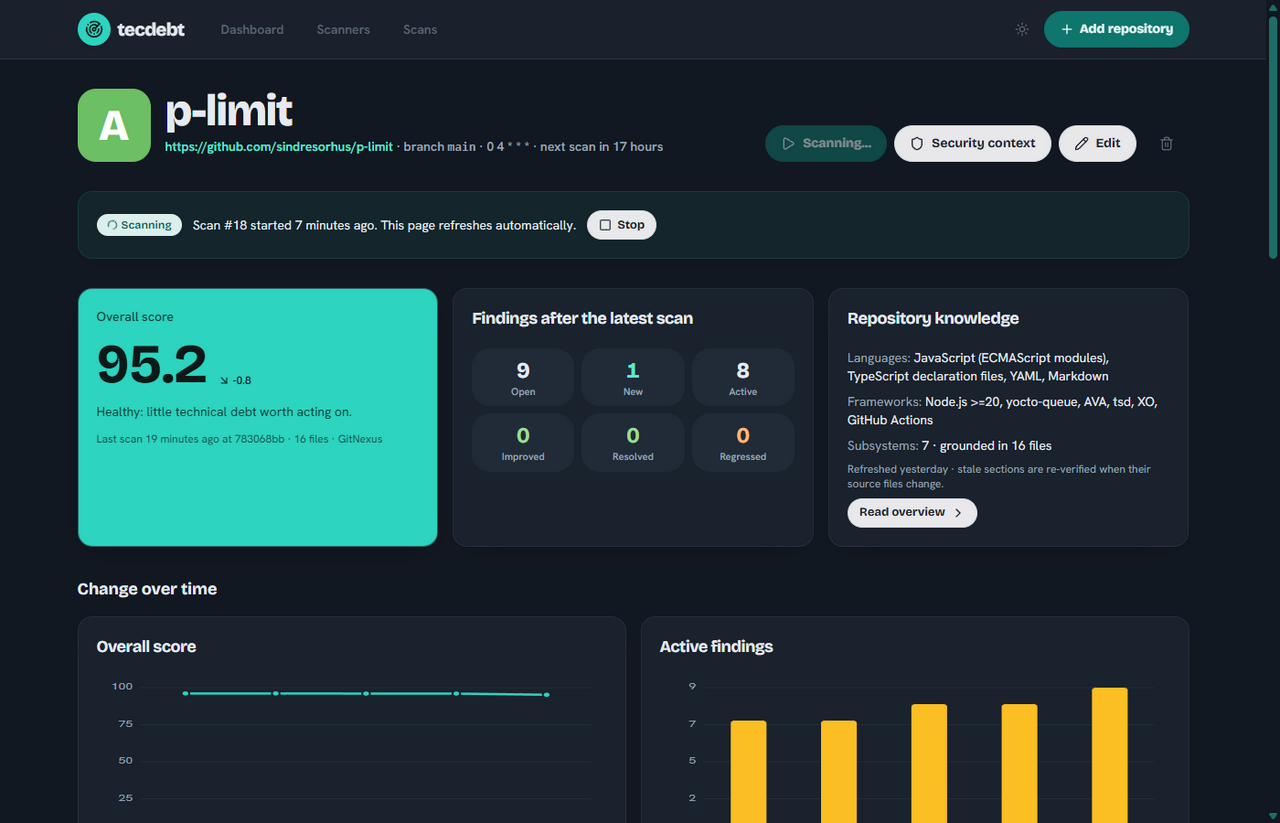
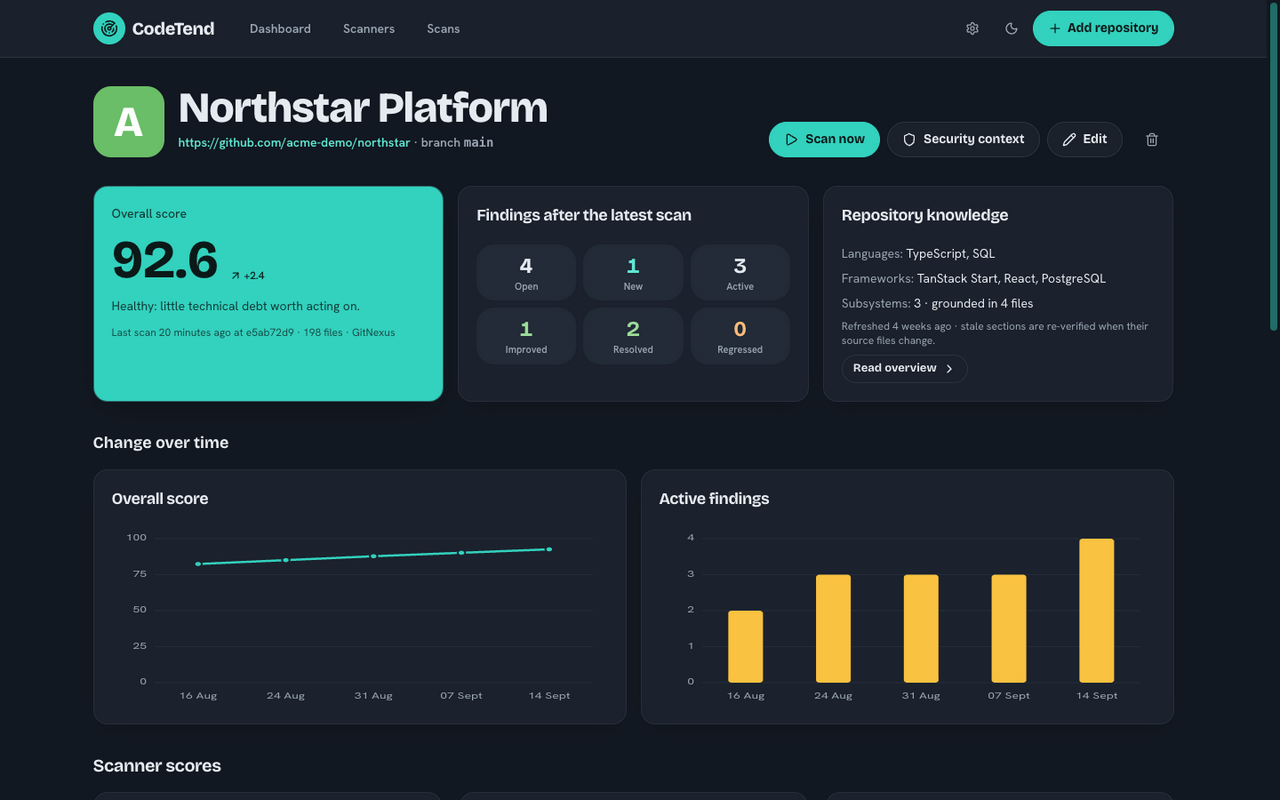
docs(readme): add current app visuals

diff --git a/README.md b/README.md
@@ -26,6 +26,10 @@
 <img alt="Self-hosted" src="https://img.shields.io/badge/self--hosted-yes-0f766e.svg">
 </p>
 
+<p align="center">
+  <img src="docs/codetend-thumbnail.png" alt="CodeTend turning tangled technical debt into a healthy repository structure" width="960">
+</p>
+
 ---
 
 > [!WARNING]
@@ -103,8 +107,16 @@ tools over MCP. Details in [docs/architecture.md](docs/architecture.md).
 ## 🖥 Using it
 
 <p align="center">
-  <img src="docs/repository-page.png" alt="CodeTend repository page showing the overall score, per-scanner grades, active findings and change-over-time charts" width="820">
+  <img src="docs/dashboard.png" alt="CodeTend dashboard showing three example repositories with scores, grades and finding counts" width="820">
 </p>
+
+<p align="center"><em>Repository health at a glance. All data shown is illustrative.</em></p>
+
+<p align="center">
+  <img src="docs/repository-page.png" alt="CodeTend repository page showing an example overall score, finding lifecycle counts, repository knowledge and change-over-time charts" width="820">
+</p>
+
+<p align="center"><em>Drill into score trends, findings and the repository knowledge model.</em></p>
 
 1. **Add a repository** from the repositories available to the configured
    GitHub App or token, or use the URL fallback for another Git host.
